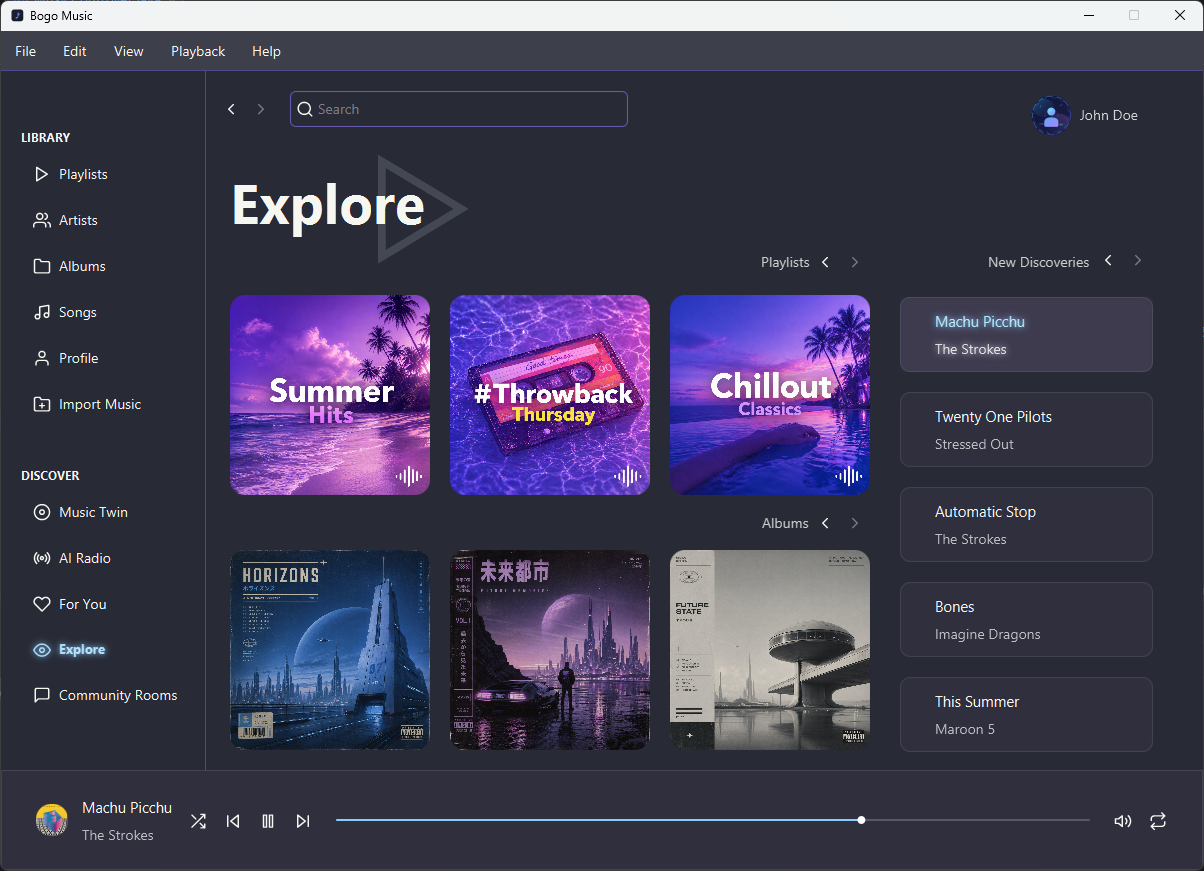
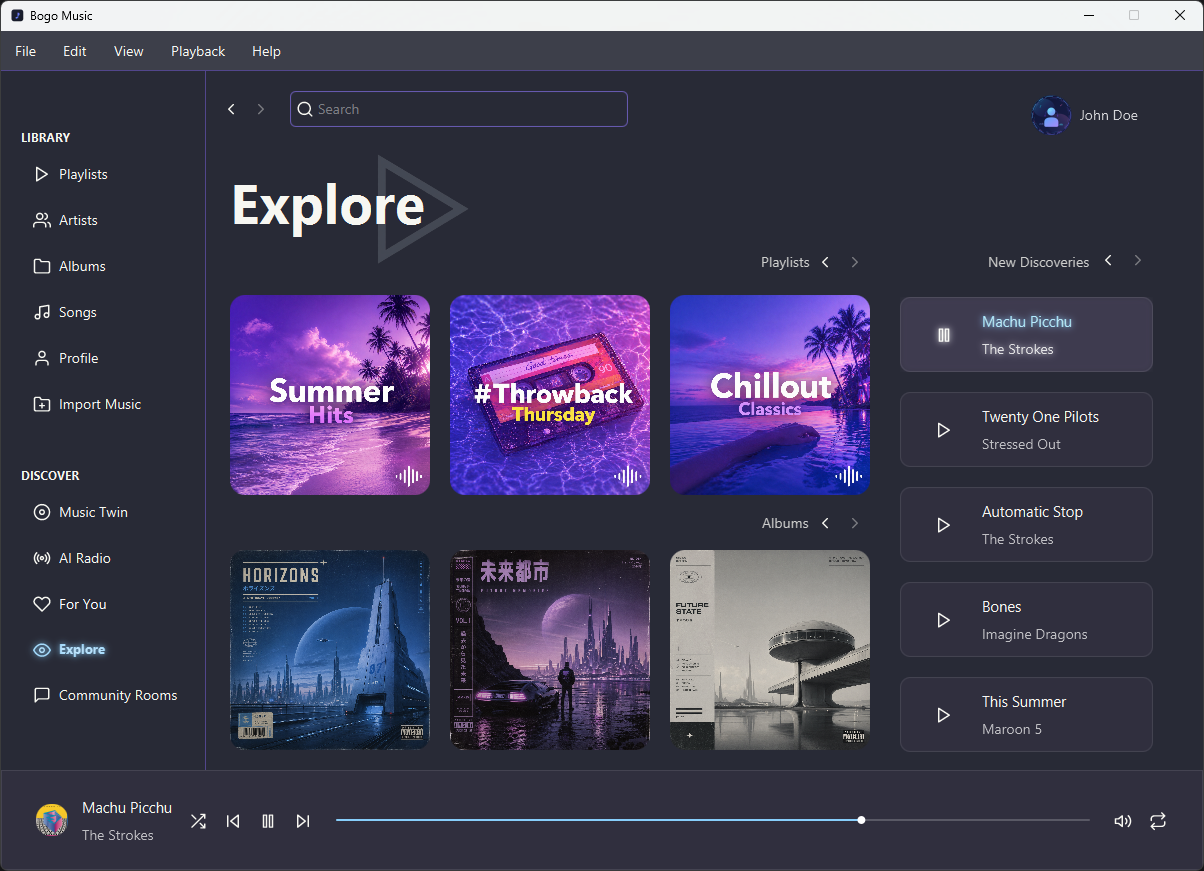
Fix tile playback logic and restore "New Music" container ID in music-view.fxml

diff --git a/src/main/java/ie/setu/bogomusic/controller/MusicController.java b/src/main/java/ie/setu/bogomusic/controller/MusicController.java
@@ -146,7 +146,7 @@ public class MusicController implements Initializable {
             if (!(child instanceof Tile tile)) continue;
 
             // set the first tile as playing, otherwise not playing
-            if (i == 1) {
+            if (i == 0) {
                 tile.setGraphic(new FontIcon(Feather.PAUSE));
             }
             else {
